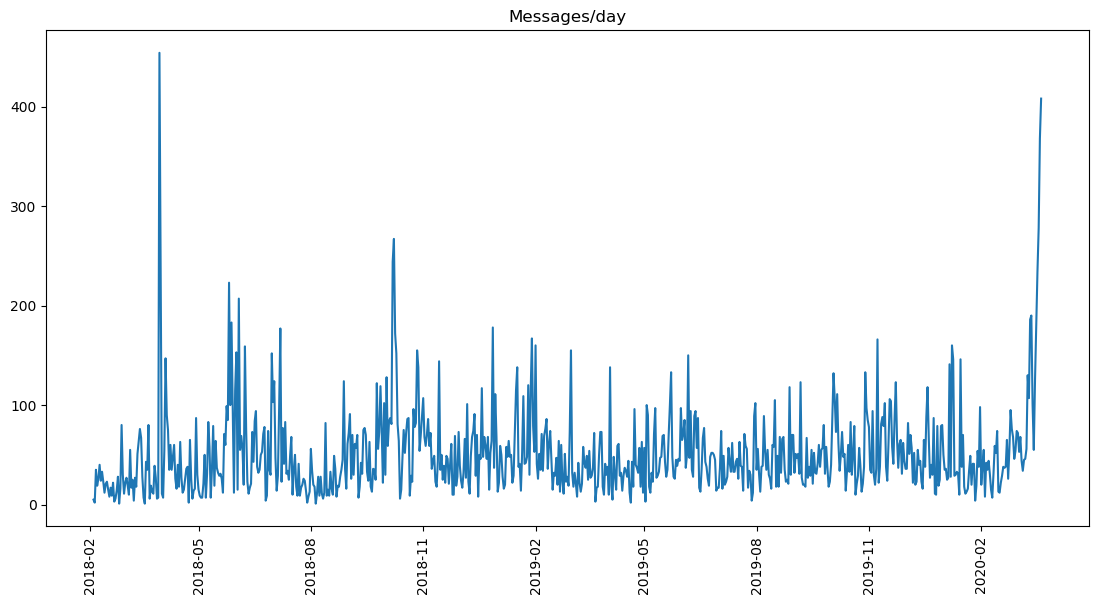
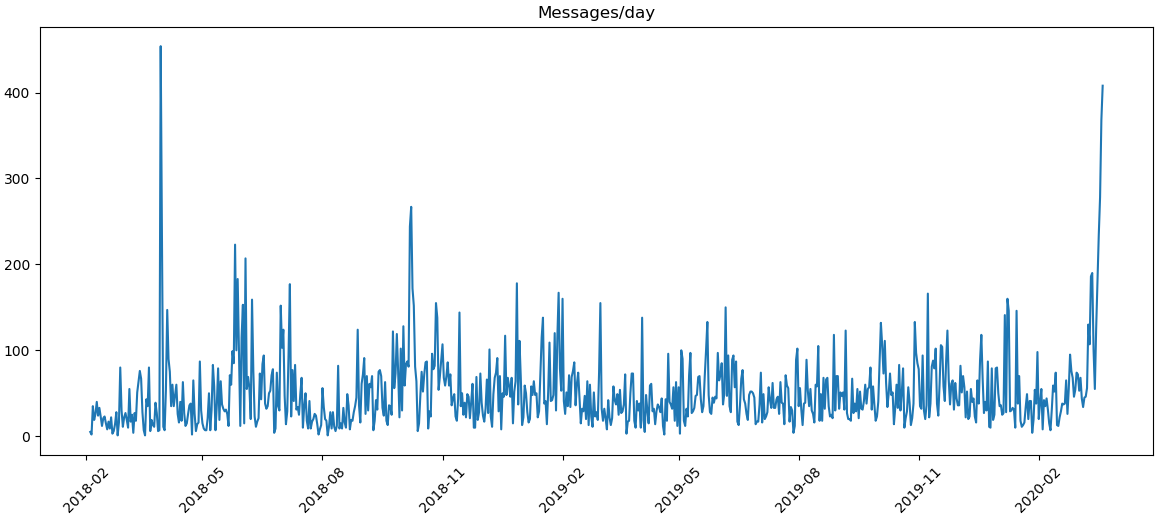
-Inclusão do argparse. -Inclusão do word count. -Plot com labels em 45 graus.

diff --git a/whatsapp_group_stats.py b/whatsapp_group_stats.py
@@ -2,12 +2,12 @@ from datetime import datetime, timedelta
 import matplotlib.pyplot as plt
 from more_itertools import sort_together
 import numpy as np
+import argparse
 
 HEADER_LINE = 0
 TEXT_LINE = 1
-NBEST = 10
 #-------------------------------------------------------------------------
-def parseFile(filename):
+def parseFile(filename, dateTimeFormat):
     messagesList = []
     messageDict = None
     with open(filename) as fp:
@@ -19,7 +19,7 @@ def parseFile(filename):
                 #Header line
                 #01/09/2018 18:44
                 #0123456789012345
-                lineDateTime = datetime.strptime(line[:16], '%d/%m/%Y %H:%M')
+                lineDateTime = datetime.strptime(line[:16], dateTimeFormat)
                 lineType = HEADER_LINE
             except:
                 lineType = TEXT_LINE
@@ -69,13 +69,16 @@ def plotMessagesPerDay(messagesList):
     sort_together([days, numMessages])
     #print("days =", days)
     #print("numMessages =", numMessages)
+    print("Ploting group activity on time")
     print("Average: %f messages/day"%np.mean(numMessages))
+    #print(days)
+    #print(numMessages)
     plt.plot(days, numMessages)
-    plt.xticks(rotation=90)
+    plt.xticks(rotation=45)
     plt.title("Messages/day")
     plt.show()
 #-------------------------------------------------------------------------
-def topListByNumberOfMessages(messagesList):
+def topListByNumberOfMessages(messagesList, nBest):
     #create a dict with all members
     membersDict = {}
     for message in messagesList:
@@ -87,12 +90,14 @@ def topListByNumberOfMessages(messagesList):
     #convert to lists
     members, numMessages = zip(*membersDict.items())
     numMessages, members = sort_together([numMessages, members], reverse=True)
-    print("Top %d by number of messages:"%NBEST)
-    for i in range(NBEST):
+    print("--------------------------------")
+    print("Top %d by number of messages:"%nBest)
+    print("--------------------------------")
+    for i in range(nBest):
         print('%s: %d messages'%(members[i], numMessages[i]))
     print("Average of all members: %f messages"%np.mean(numMessages))
 #-------------------------------------------------------------------------
-def topListByNumberOfCharacters(messagesList):
+def topListByNumberOfCharacters(messagesList, nBest):
     #create a dict with all members
     membersDict = {}
     for message in messagesList:
@@ -105,12 +110,14 @@ def topListByNumberOfCharacters(messagesList):
     #convert to lists
     members, numChars = zip(*membersDict.items())
     numChars, members = sort_together([numChars, members], reverse=True)
-    print("Top %d by total number of typed characters:"%NBEST)
-    for i in range(NBEST):
+    print("--------------------------------------------")
+    print("Top %d by total number of typed characters:"%nBest)
+    print("--------------------------------------------")
+    for i in range(nBest):
         print('%s: %d characters'%(members[i], numChars[i]))
     print("Average of all members: %f characters"%np.mean(numChars))
 #-------------------------------------------------------------------------
-def topListByAverageMessageSize(messagesList):
+def topListByAverageMessageSize(messagesList, nBest):
     #create a dict with all members
     membersDict = {}
     for message in messagesList:
@@ -128,19 +135,53 @@ def topListByAverageMessageSize(messagesList):
     for i in range(len(messagesData)):
         averageSizes.append(float(messagesData[i][1])/ messagesData[i][0])
     averageSizes, members = sort_together([averageSizes, members], reverse=True)
-    print("Top %d by average message size:"%NBEST)
-    for i in range(NBEST):
+    print("-----------------------------------------")
+    print("Top %d by average message size:"%nBest)
+    print("-----------------------------------------")
+
+    for i in range(nBest):
         print('%s: %1.1f characters'%(members[i], averageSizes[i]))
     print("Average of all members: %f characters"%np.mean(averageSizes))
 #-------------------------------------------------------------------------
-filename = 'ateel_202003212015.txt'
-messagesList = parseFile(filename)
+def topListWords(messagesList, nBest):
+    #create a dict with all members
+    wordsDict = {}
+    for message in messagesList:
+        text = message['text']
+        words = text.split()
+        for word in words:
+            if word not in wordsDict.keys():
+                wordsDict[word] = 1
+            else:
+                wordsDict[word] += 1
+    #convert to lists
+    words, occurrences = zip(*wordsDict.items())
+    occurrences, words = sort_together([occurrences, words], reverse=True)
+    print("-------------------------")
+    print("Top %d used words:"%nBest)
+    print("-------------------------")
+    for i in range(nBest):
+        print('%s: %d occurrences'%(words[i], occurrences[i]))
+#-------------------------------------------------------------------------
+parser = argparse.ArgumentParser(description='Generate statistics from whatsapp group history')
+parser.add_argument('-i', '--inputfile', type = str, required = True, help = 'whatsapp group exported history file')
+parser.add_argument('-n', '--nbest', type = int, required = False, help = 'Number of items of top list', default = 10)
+parser.add_argument('-d', '--datetimeformat', type = str, required = False, help = 'date time parsing format (for datetime.strptime function - language/country dependant)', default = '%d/%m/%Y %H:%M')
 
-print("--------------------------------------------")
-topListByNumberOfMessages(messagesList)
-print("--------------------------------------------")
-topListByNumberOfCharacters(messagesList)
-print("--------------------------------------------")
-topListByAverageMessageSize(messagesList)
-print("--------------------------------------------")
+ns = parser.parse_args()
+inputFile      = ns.inputfile
+nBest          = ns.nbest
+dateTimeFormat = ns.datetimeformat
+
+messagesList = parseFile(inputFile, dateTimeFormat)
+
+print("")
+topListByNumberOfMessages(messagesList, nBest)
+print("")
+topListByNumberOfCharacters(messagesList, nBest)
+print("")
+topListByAverageMessageSize(messagesList, nBest)
+print("")
+topListWords(messagesList, nBest)
+print("")
 plotMessagesPerDay(messagesList)

diff --git a/README.md b/README.md
@@ -1,17 +1,38 @@
-# WHATSPAPP-GROUP-STATS
+# whatsapp-group-stats
 ## What is it?
 This is a tool to generate statistics from a WhatsApp group exported history.
 
 ## How to use?
+
 ```
-python3 whatspapp_group_stats -i <group_history> -n <nbest_size>
+python3 whatspapp_group_stats -h
+usage: whatsapp_group_stats.py [-h] -i INPUTFILE [-n NBEST]
+                               [-d DATETIMEFORMAT]
+
+Generate statistics from whatsapp group history
+
+optional arguments:
+  -h, --help            show this help message and exit
+  -i INPUTFILE, --inputfile INPUTFILE
+                        whatsapp group exported history file
+  -n NBEST, --nbest NBEST
+                        Number of items of top list
+  -d DATETIMEFORMAT, --datetimeformat DATETIMEFORMAT
+                        date time parsing format (for datetime.strptime
+                        function - language/country dependant)
+
+```
+Example:
+```
+python3 whatspapp_group_stats -i my_group_history.txt
 ```
 
 ## Output
 A set of group statistics. Ex:
 ```
---------------------------------------------
+--------------------------------
 Top 10 by number of messages:
+--------------------------------
 +55 41 xxxx-xxxx: 4421 messages
 +55 48 xxxx-xxxx: 3971 messages
 John Doe: 2519 messages
@@ -23,8 +44,10 @@ Pythagoras: 1571 messages
 +55 41 xxxx-xxxx: 1549 messages
 Archimedes: 1433 messages
 Average of all members: 568.628571 messages
+
 --------------------------------------------
 Top 10 by total number of typed characters:
+--------------------------------------------
 +55 41 xxxx-xxxx: 547903 characters
 +55 48 xxxx-xxxx: 214173 characters
 Pythagoras: 190801 characters
@@ -36,8 +59,10 @@ Eratosthenes: 95697 characters
 Pablo Picasso (EEL): 83617 characters
 Archimedes: 82729 characters
 Average of all members: 41188.442857 characters
---------------------------------------------
+
+-----------------------------------------
 Top 10 by average message size:
+-----------------------------------------
 +55 27 xxxx-xxxx: 256.0 characters
 +55 48 xxxx-xxxx: 157.9 characters
 +41 78 xxx xx xx: 152.0 characters
@@ -49,8 +74,25 @@ Top 10 by average message size:
 +55 48 xxxx-xxxx: 106.6 characters
 +55 41 xxxx-xxxx: 97.9 characters
 Average of all members: 70.672159 characters
---------------------------------------------
+
+-------------------------
+Top 10 used words:
+-------------------------
+de: 20831 occurrences
+que: 10230 occurrences
+o: 10030 occurrences
+a: 9534 occurrences
+e: 8806 occurrences
+mídia: 6741 occurrences
+<Arquivo: 6709 occurrences
+oculto>: 6709 occurrences
+do: 5753 occurrences
+é: 5122 occurrences
+
+
+Ploting group activity on time
 Average: 51.227799 messages/day
+
 ```
 A plot of the group activity. Ex:
 ![alt text](https://raw.githubusercontent.com/sergio-schmiegelow/whatsapp-group-stats/master/example_plot.png "Example plot")
